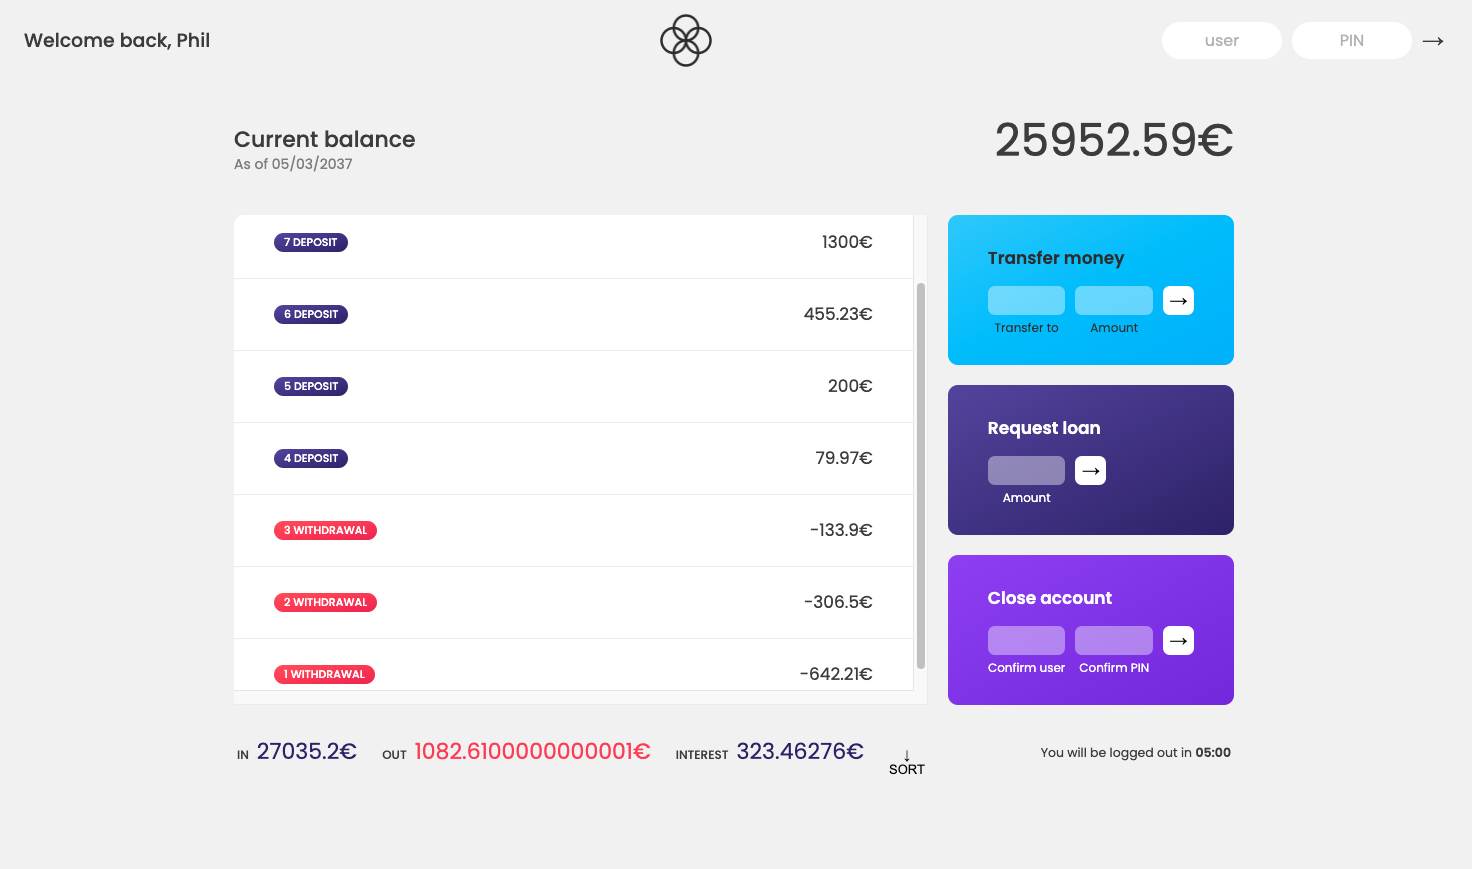
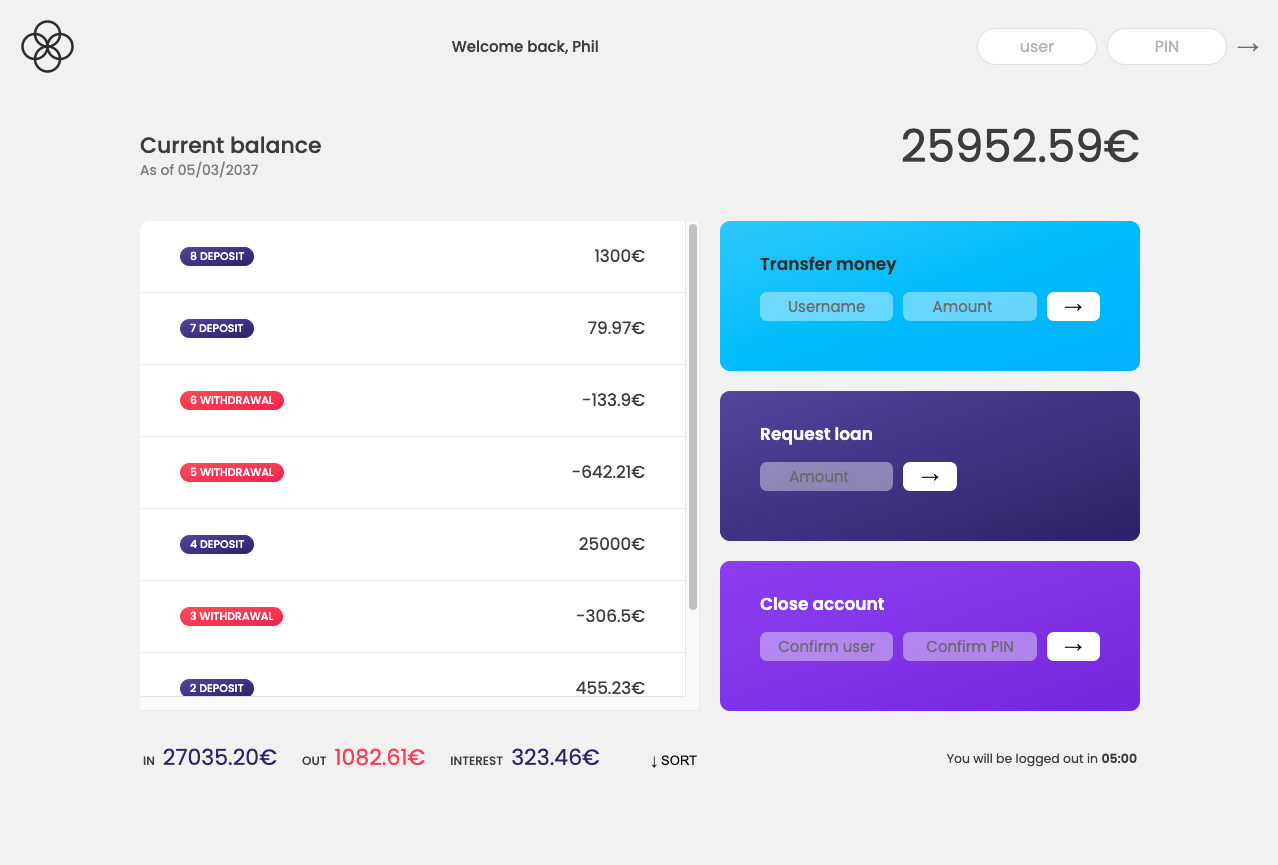
update Readme

diff --git a/README.md b/README.md
@@ -52,4 +52,5 @@ Vanilla JavaScript
 
 # Demo:
 
-![BackApp Demo view ](AppView.png)
+![BackApp Demo Web view ](AppView.png)
+![BackApp Demo Mobile view ](MobileView.png)
